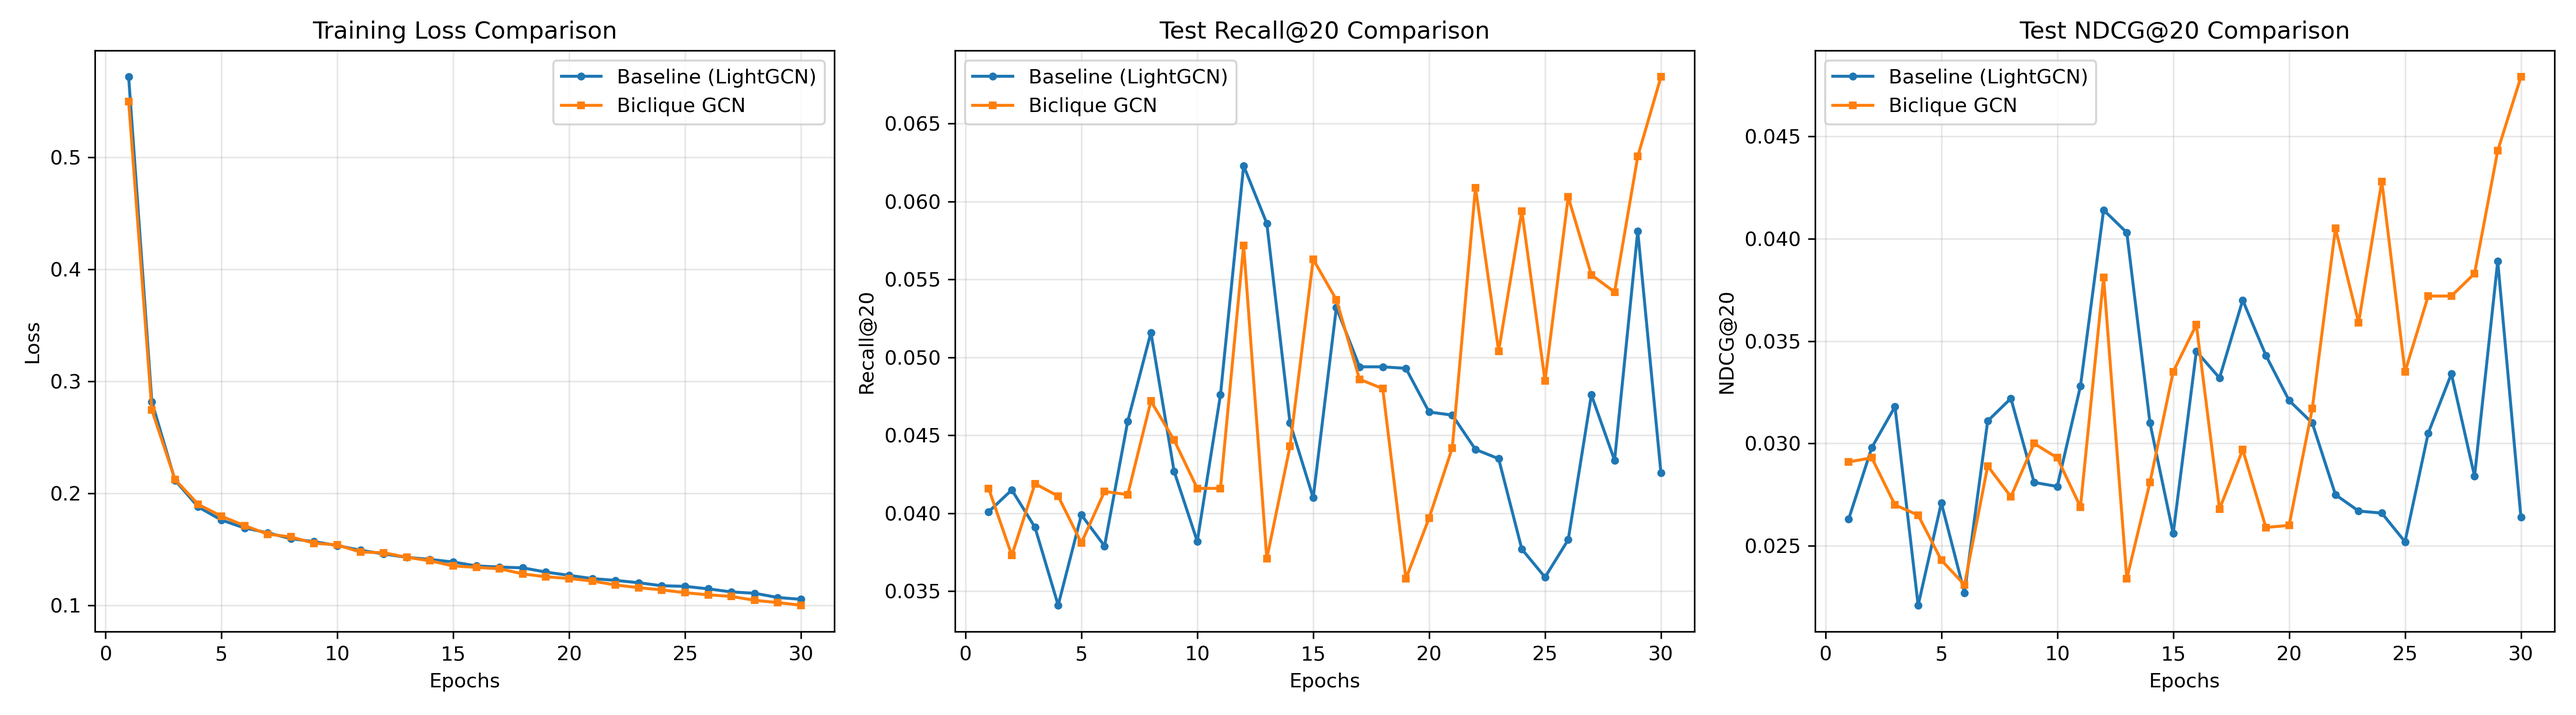
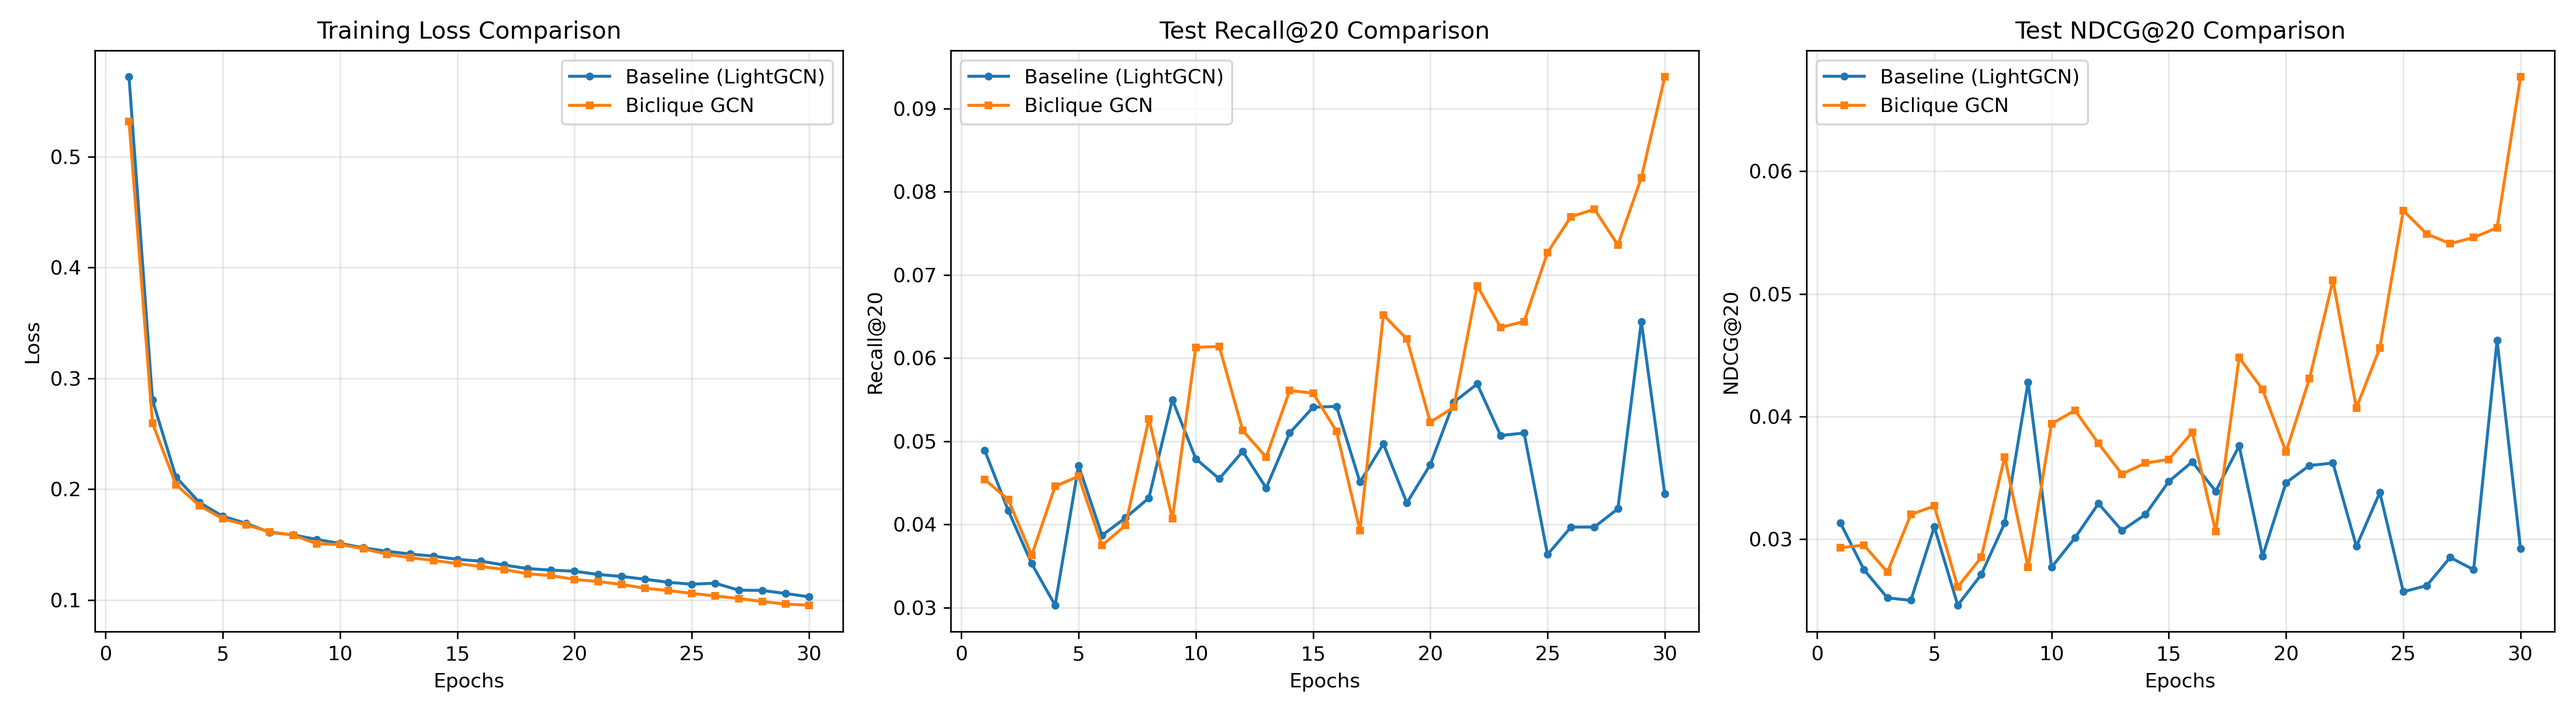
Update Run_on_Kaggle.ipynb and training scripts for 50 epochs comparison

diff --git a/TSB_CL_Project/solo_model/plot_ablation_comparison.py b/TSB_CL_Project/solo_model/plot_ablation_comparison.py
@@ -4,15 +4,15 @@ import numpy as np
 # Data
 epochs = range(1, 31)
 
-# Model 1: Pure LightGCN
-loss_1 = [0.5716, 0.2816, 0.2115, 0.1877, 0.1760, 0.1689, 0.1646, 0.1593, 0.1567, 0.1532, 0.1490, 0.1457, 0.1427, 0.1408, 0.1385, 0.1350, 0.1340, 0.1333, 0.1295, 0.1266, 0.1237, 0.1221, 0.1200, 0.1173, 0.1168, 0.1145, 0.1118, 0.1106, 0.1068, 0.1052]
-recall_1 = [0.0401, 0.0415, 0.0391, 0.0341, 0.0399, 0.0379, 0.0459, 0.0516, 0.0427, 0.0382, 0.0476, 0.0623, 0.0586, 0.0458, 0.0410, 0.0532, 0.0494, 0.0494, 0.0493, 0.0465, 0.0463, 0.0441, 0.0435, 0.0377, 0.0359, 0.0383, 0.0476, 0.0434, 0.0581, 0.0426]
-ndcg_1 = [0.0263, 0.0298, 0.0318, 0.0221, 0.0271, 0.0227, 0.0311, 0.0322, 0.0281, 0.0279, 0.0328, 0.0414, 0.0403, 0.0310, 0.0256, 0.0345, 0.0332, 0.0370, 0.0343, 0.0321, 0.0310, 0.0275, 0.0267, 0.0266, 0.0252, 0.0305, 0.0334, 0.0284, 0.0389, 0.0264]
+# Model 1: Pure LightGCN (Baseline)
+loss_1 = [0.5721, 0.2805, 0.2110, 0.1880, 0.1755, 0.1691, 0.1610, 0.1587, 0.1546, 0.1510, 0.1470, 0.1439, 0.1414, 0.1395, 0.1366, 0.1350, 0.1315, 0.1283, 0.1269, 0.1259, 0.1230, 0.1212, 0.1187, 0.1159, 0.1142, 0.1151, 0.1088, 0.1086, 0.1058, 0.1028]
+recall_1 = [0.0489, 0.0417, 0.0353, 0.0303, 0.0471, 0.0387, 0.0408, 0.0432, 0.0550, 0.0479, 0.0455, 0.0488, 0.0444, 0.0510, 0.0541, 0.0542, 0.0451, 0.0497, 0.0426, 0.0472, 0.0547, 0.0569, 0.0507, 0.0510, 0.0364, 0.0397, 0.0397, 0.0419, 0.0644, 0.0437]
+ndcg_1 = [0.0313, 0.0275, 0.0252, 0.0250, 0.0310, 0.0246, 0.0271, 0.0313, 0.0428, 0.0277, 0.0301, 0.0329, 0.0307, 0.0320, 0.0347, 0.0363, 0.0339, 0.0376, 0.0286, 0.0346, 0.0360, 0.0362, 0.0294, 0.0338, 0.0257, 0.0262, 0.0285, 0.0275, 0.0462, 0.0292]
 
-# Model 2: Biclique GCN
-loss_2 = [0.5498, 0.2743, 0.2122, 0.1900, 0.1794, 0.1710, 0.1634, 0.1609, 0.1553, 0.1538, 0.1474, 0.1468, 0.1427, 0.1396, 0.1350, 0.1337, 0.1325, 0.1279, 0.1253, 0.1238, 0.1215, 0.1180, 0.1156, 0.1136, 0.1111, 0.1092, 0.1078, 0.1043, 0.1023, 0.0999]
-recall_2 = [0.0416, 0.0373, 0.0419, 0.0411, 0.0381, 0.0414, 0.0412, 0.0472, 0.0447, 0.0416, 0.0416, 0.0572, 0.0371, 0.0443, 0.0563, 0.0537, 0.0486, 0.0480, 0.0358, 0.0397, 0.0442, 0.0609, 0.0504, 0.0594, 0.0485, 0.0603, 0.0553, 0.0542, 0.0629, 0.0680]
-ndcg_2 = [0.0291, 0.0293, 0.0270, 0.0265, 0.0243, 0.0231, 0.0289, 0.0274, 0.0300, 0.0293, 0.0269, 0.0381, 0.0234, 0.0281, 0.0335, 0.0358, 0.0268, 0.0297, 0.0259, 0.0260, 0.0317, 0.0405, 0.0359, 0.0428, 0.0335, 0.0372, 0.0372, 0.0383, 0.0443, 0.0479]
+# Model 2: Biclique GCN (tau=2)
+loss_2 = [0.5320, 0.2596, 0.2041, 0.1852, 0.1733, 0.1677, 0.1615, 0.1585, 0.1507, 0.1500, 0.1462, 0.1412, 0.1381, 0.1356, 0.1328, 0.1302, 0.1275, 0.1235, 0.1220, 0.1185, 0.1166, 0.1140, 0.1105, 0.1085, 0.1059, 0.1036, 0.1013, 0.0986, 0.0962, 0.0952]
+recall_2 = [0.0454, 0.0430, 0.0363, 0.0446, 0.0458, 0.0375, 0.0399, 0.0527, 0.0407, 0.0613, 0.0614, 0.0513, 0.0481, 0.0561, 0.0558, 0.0512, 0.0393, 0.0652, 0.0623, 0.0523, 0.0541, 0.0687, 0.0637, 0.0644, 0.0727, 0.0770, 0.0779, 0.0736, 0.0817, 0.0938]
+ndcg_2 = [0.0293, 0.0295, 0.0273, 0.0320, 0.0327, 0.0261, 0.0285, 0.0367, 0.0277, 0.0394, 0.0405, 0.0378, 0.0353, 0.0362, 0.0365, 0.0387, 0.0306, 0.0448, 0.0422, 0.0371, 0.0431, 0.0511, 0.0407, 0.0456, 0.0568, 0.0549, 0.0541, 0.0546, 0.0554, 0.0677]
 
 plt.figure(figsize=(18, 5))
 

diff --git a/TSB_CL_Project/solo_model/train_4_full.py b/TSB_CL_Project/solo_model/train_4_full.py
@@ -6,8 +6,8 @@ if __name__ == "__main__":
         model_class=FullTSBCL,
         model_name="Full TSB-CL (Biclique + CL + RNN)",
         model_type="full",
-        epochs=30,
-        tau=3,
+        epochs=50,
+        tau=2,
         epsilon=0.1
     )
     print("\nFinal Metrics:", metrics)

diff --git a/TSB_CL_Project/solo_model/train_3_biclique_cl.py b/TSB_CL_Project/solo_model/train_3_biclique_cl.py
@@ -6,8 +6,8 @@ if __name__ == "__main__":
         model_class=BicliqueCL,
         model_name="Biclique + CL (No RNN)",
         model_type="biclique_cl",
-        epochs=30,
-        tau=3,
+        epochs=50,
+        tau=2,
         epsilon=0.1
     )
     print("\nFinal Metrics:", metrics)

diff --git a/TSB_CL_Project/solo_model/train_2_biclique_gcn.py b/TSB_CL_Project/solo_model/train_2_biclique_gcn.py
@@ -6,7 +6,7 @@ if __name__ == "__main__":
         model_class=BicliqueGCN,
         model_name="Biclique GCN (No CL, No RNN)",
         model_type="biclique_gcn",
-        epochs=30,
+        epochs=50,
         tau=2,
         epsilon=0.1
     )

diff --git a/TSB_CL_Project/solo_model/train_1_lightgcn.py b/TSB_CL_Project/solo_model/train_1_lightgcn.py
@@ -6,6 +6,6 @@ if __name__ == "__main__":
         model_class=PureLightGCN,
         model_name="Pure LightGCN (Baseline)",
         model_type="lightgcn",
-        epochs=30
+        epochs=50
     )
     print("\nFinal Metrics:", metrics)
